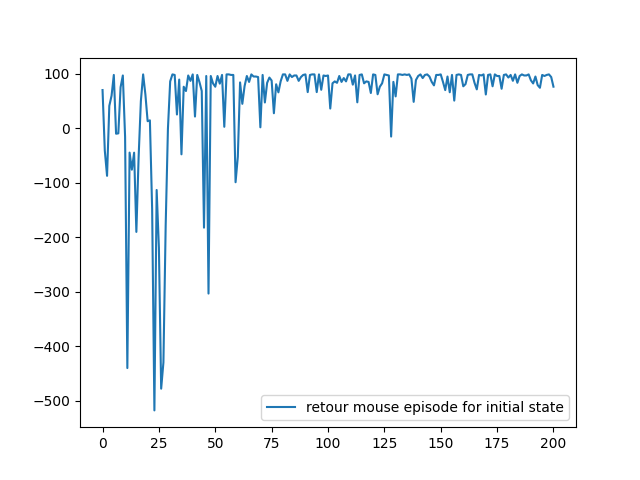
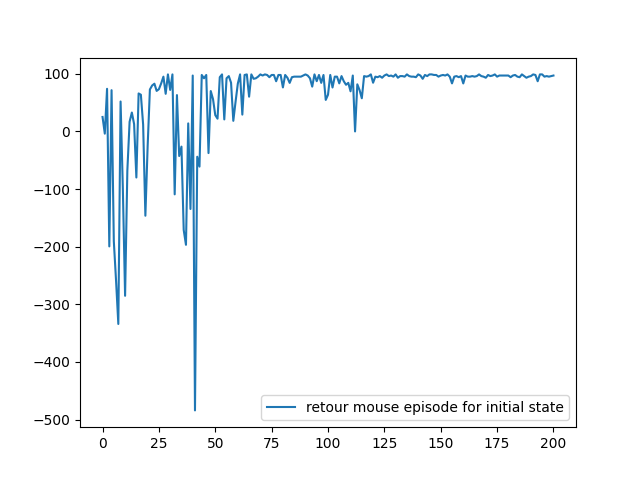
u

diff --git a/actor_critic_cat_mouse/test.py b/actor_critic_cat_mouse/test.py
@@ -11,7 +11,7 @@ from a22c import A2C
 from rep import Representation, Representation_action
 from agent import Cat, Mouse
 import numpy as np
-def test(mouse:Mouse,env:grid):
+def test(mouse:Mouse,cat:Mouse,env:grid):
     mouse.epsilon = 0
     j =0
     T = env.grid()
@@ -23,22 +23,23 @@ def test(mouse:Mouse,env:grid):
         env.wset()
     n = 0
     while not env.terminated():
-        s_mouse,_ = env.transition_mouse(mouse.act(env.mouse))
+        j+=1
+        s_tab = {"cat":env.state_cat(),"mouse": env.state_mouse()}
+        _,_ = env.transition_mouse(mouse([s_tab["mouse"]]))
+        _,_ = env.transition_cat(cat(s_tab))
         T = env.grid()
         plt.figure()
         plt.imshow(T)
         plt.savefig(f"image/frame{j}")
         plt.close()
-    exit()
 
 if __name__=="__main__":
-    train = True
-    testmode = False
-    start = 0
-    epsilon = .3
+    testmode = True
+    start = 240
+    epsilon = .8
     gamma = .99
     nx = 4
-    ny = 4
+    ny = 5
     # large learning rates implies more risk to local minima
     mouse_lr_pi = 1e-3
     mouse_lr_q = 1e-3
@@ -48,18 +49,21 @@ if __name__=="__main__":
     buffer_size = 600
     # learn Q with K iteration, allows more stability. We choose K=1 bc the system is simple.
     K = 2
-    n_epochs = 200
+    n_epochs = 250
     loadpath = "loads"
     loadopt = "opt"
     max_steps = 100
-    fact = .999
+    fact = .95
     tau = .01
-
-
-
 
     env = grid(nx,ny,max_steps = max_steps)
     env.reset()
     mouse = Mouse(env,epsilon = epsilon,buffer_size = buffer_size,lr_pi=mouse_lr_pi, lr_q=mouse_lr_q, tau=tau)
-    cat = Cat(env,epsilon = 0.1, buffer_size = buffer_size, lr_pi=cat_lr_pi, lr_q=cat_lr_q,tau = tau,K = 5)
-    A2C(env,mouse,cat,batch_size,n_epochs,fact = fact)
+    cat = Cat(env,epsilon = epsilon, buffer_size = buffer_size, lr_pi=cat_lr_pi, lr_q=cat_lr_q,tau = tau,K = 5)
+    if start>0:
+        mouse.load(start)
+        cat.load(start)
+    if testmode:
+        test(mouse,cat,env)
+    else:
+        A2C(env,mouse,cat,batch_size,n_epochs,fact = fact)

diff --git a/actor_critic_cat_mouse/a22c.py b/actor_critic_cat_mouse/a22c.py
@@ -93,8 +93,8 @@ def A2C(env:grid,
                 loss_Q[label].append(loss_.item())
         mouse.update_target_net()
         cat.update_target_net()
-        #mouse.epsilon=max(0.02,mouse.epsilon*fact)
-        #cat.epsilon=max(0.02,cat.epsilon*fact)
+        mouse.epsilon=max(0.02,mouse.epsilon*fact)
+        cat.epsilon=max(0.02,cat.epsilon*fact)
         if n>0:
             retour_episodes["mouse"].append(return_mouse.item())
             retour_episodes["cat"].append(return_cat.item())

diff --git a/actor_critic_cat_mouse/env2.py b/actor_critic_cat_mouse/env2.py
@@ -67,7 +67,7 @@ class grid:
         s_cat = self.cat_pos
         T = np.zeros((self.Nx,self.Ny))
         T[s_mouse[0], s_mouse[1]] = 1
-        #T[s_cat[0], s_cat[1]] = -1
+        T[s_cat[0], s_cat[1]] = -1
         T[self.target_mouse[0],self.target_mouse[1]] = 5
         print(T)
         return T

diff --git a/actor_critic_cat_mouse/agent.py b/actor_critic_cat_mouse/agent.py
@@ -158,5 +158,5 @@ class Cat(Tool):
             out = self.p([state["cat"]],[state["mouse"]])
             out = int(out.detach().item())
         return out 
-    def __call__(self,state:np.ndarray):
+    def __call__(self,state:dict):
         return self.epsilon_greedy_policy(state)
